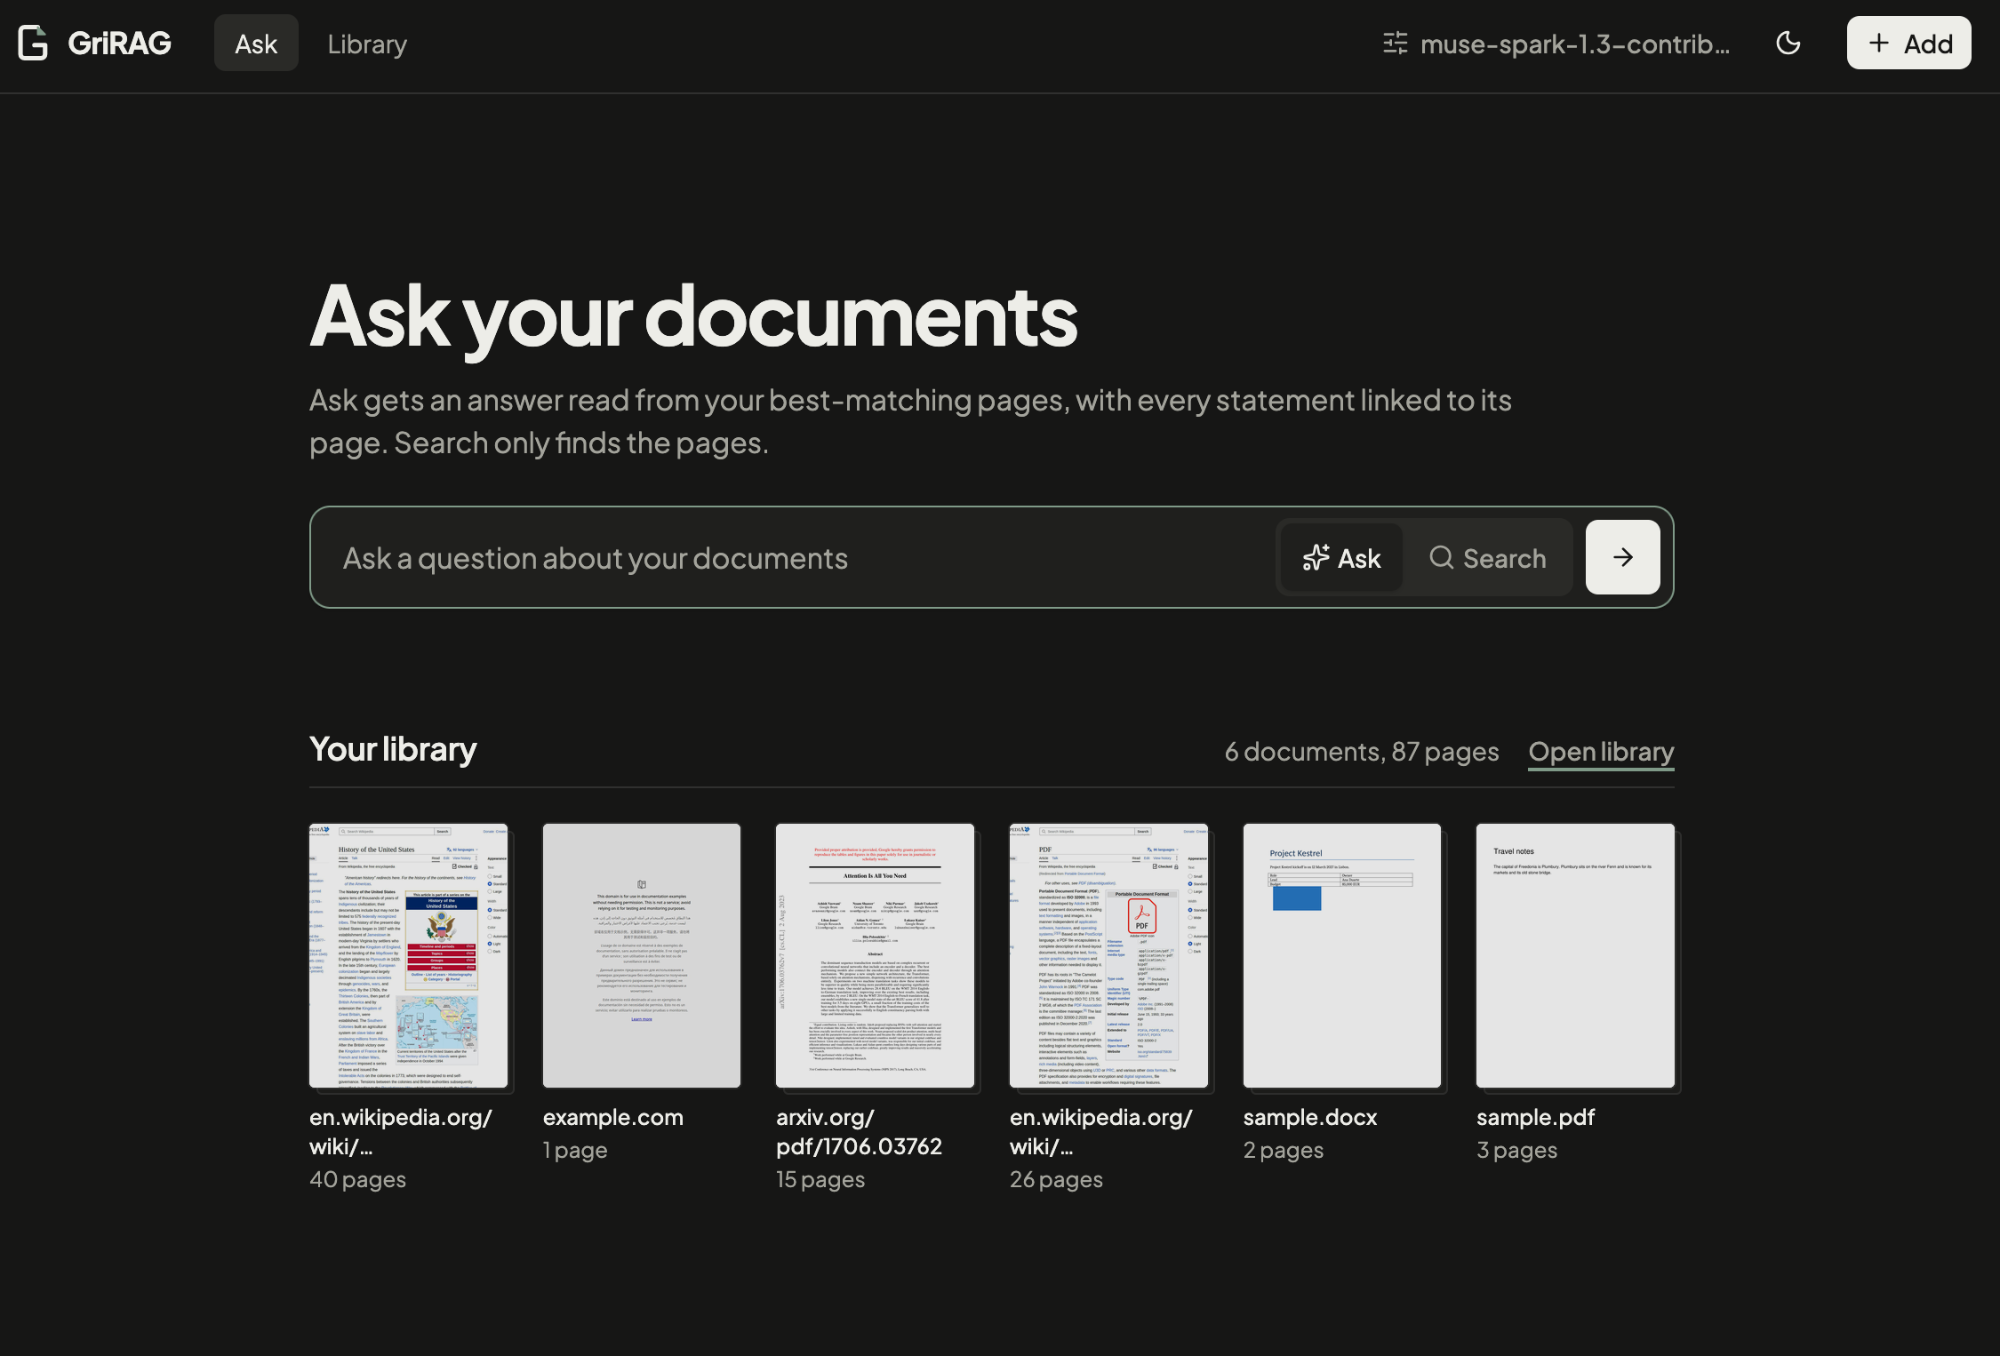
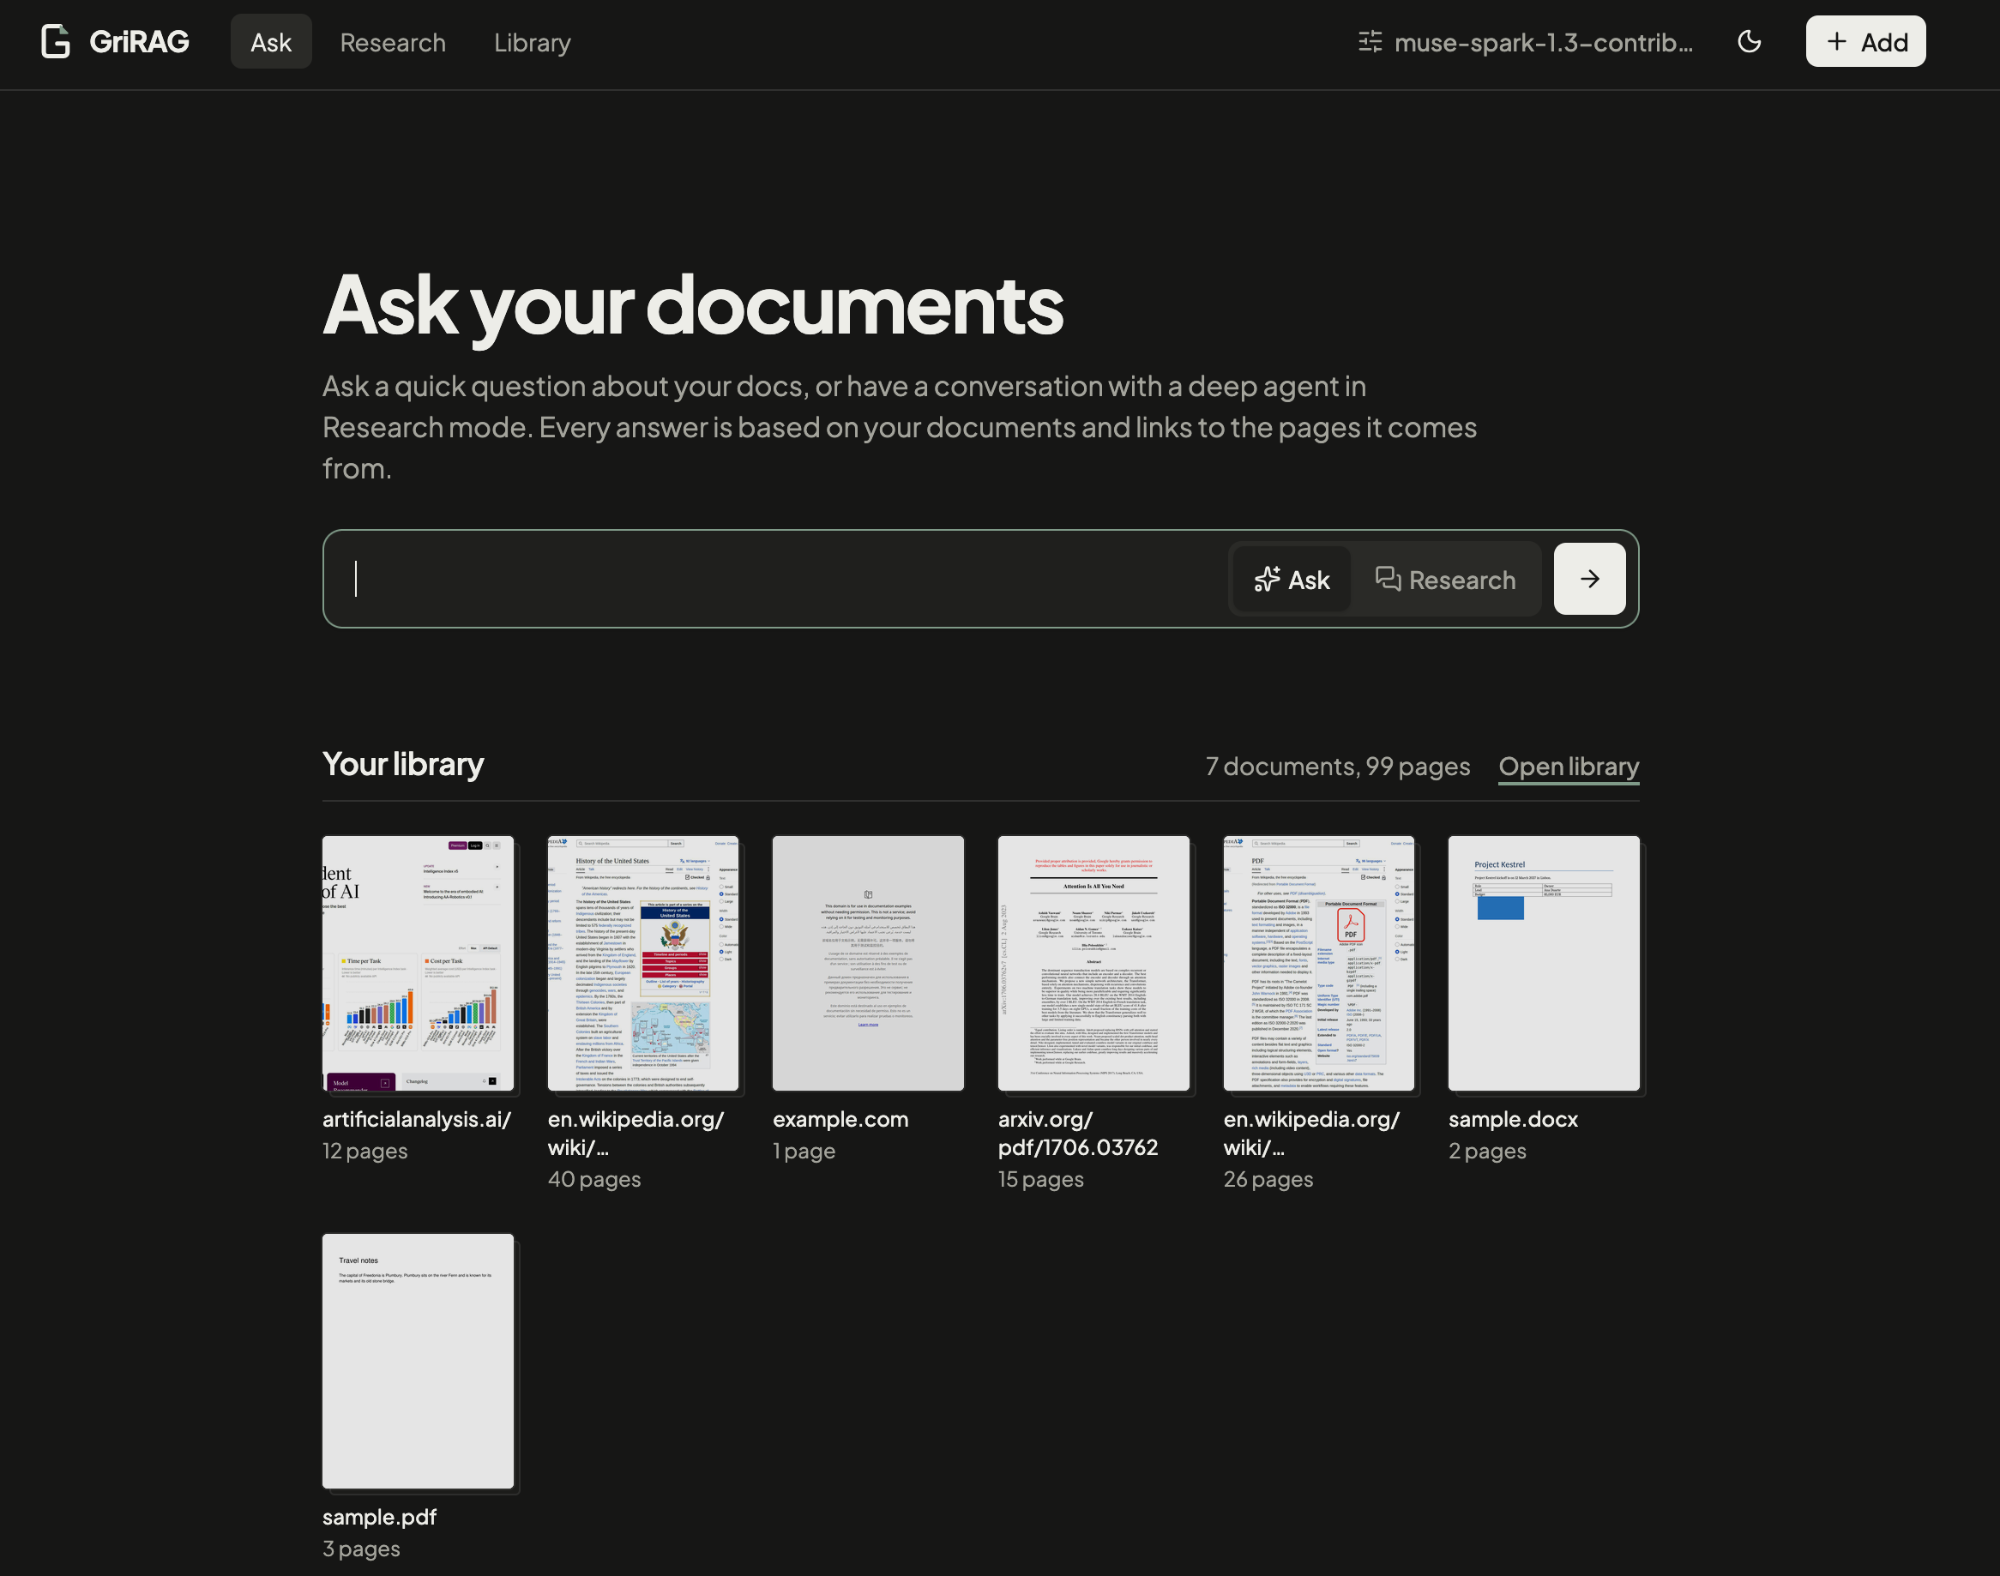
docs: update the home screenshot, shorten the decisions page, note the agent's cost

diff --git a/README.md b/README.md
@@ -3,12 +3,13 @@
 # GriRAG
 
 Ask questions about your PDFs, Word files and web pages. GriRAG reads every page as an image, so tables,
-charts and layout survive, and answers with citations to the exact pages it used. It runs on your computer,
-for one user.
+charts and layout survive, and answers with citations to the exact pages it used. Ask a quick question, or use
+Research mode to have a conversation with a deep agent that searches and reads your documents in several steps.
+It runs on your computer, for one user.
 
 **[Read the documentation →](https://gri-rag.mintlify.site)**
 
-<img src="docs/images/screenshot.png" alt="GriRAG answering when the United States was established, citing one Wikipedia page, with that page under Sources and all matching pages below.">
+<img src="docs/images/screenshot-home.png" alt="The GriRAG home page: an Ask box with Ask and Research modes, and the first page of each document in the library.">
 
 ## How it works
 
